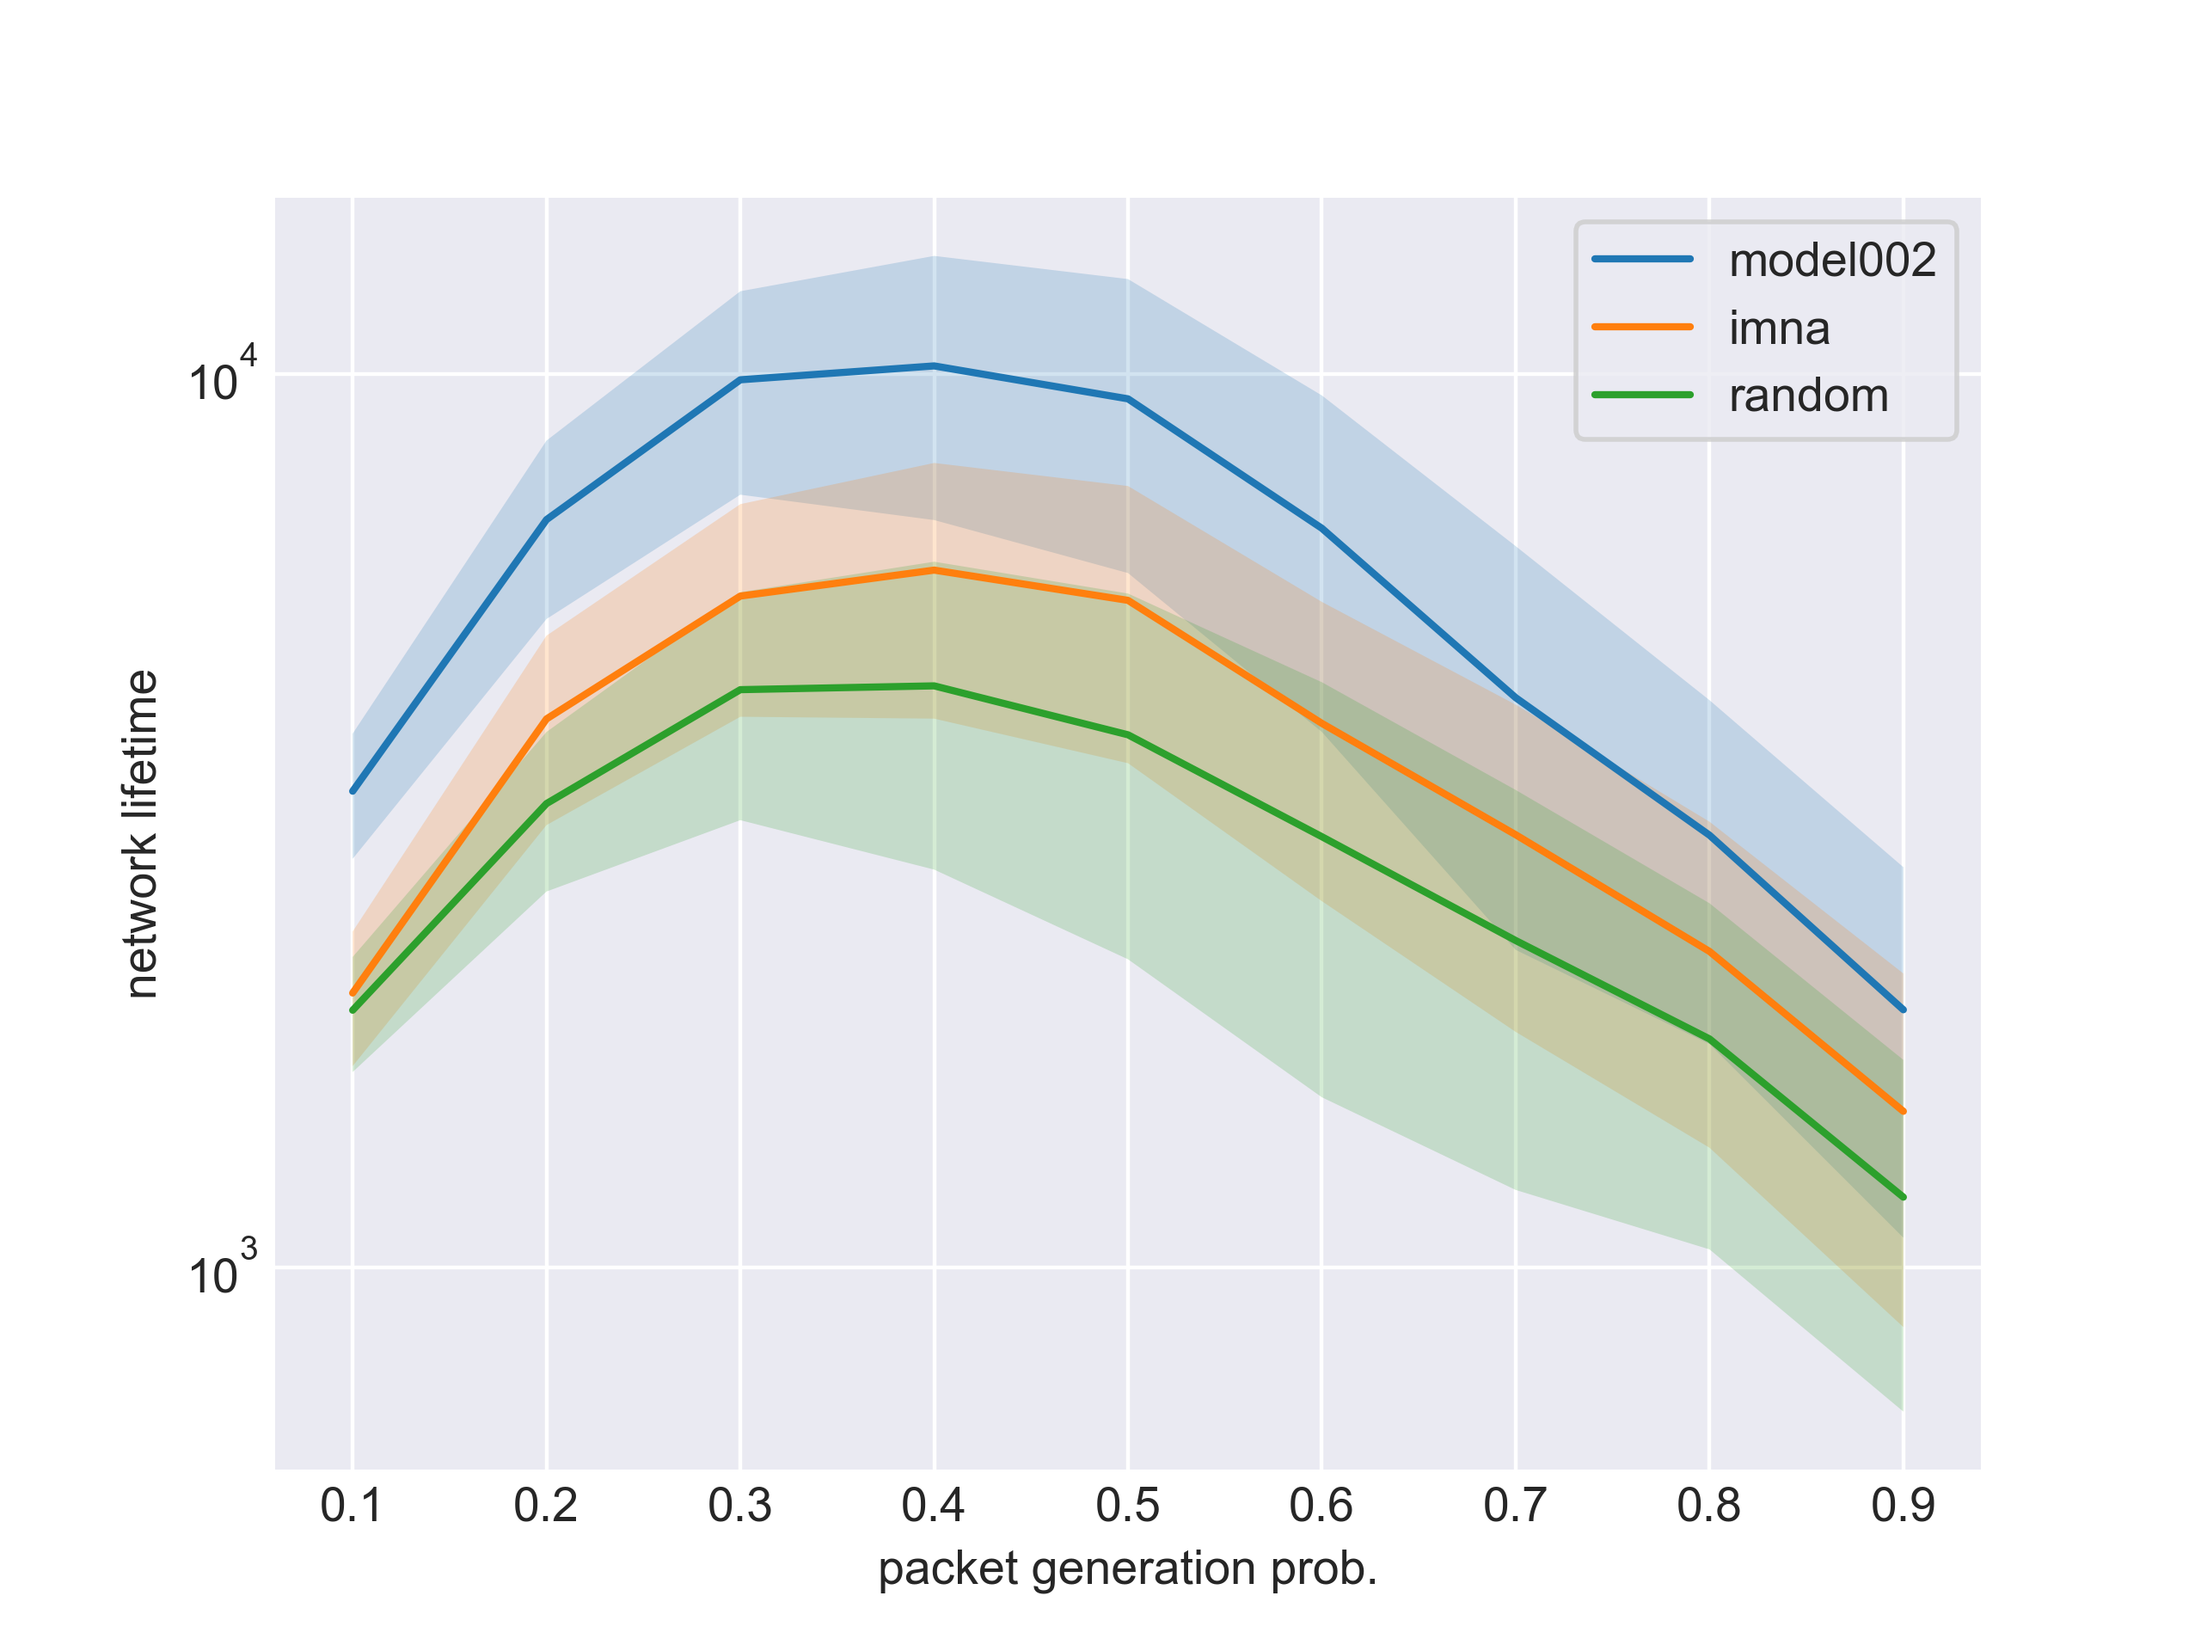
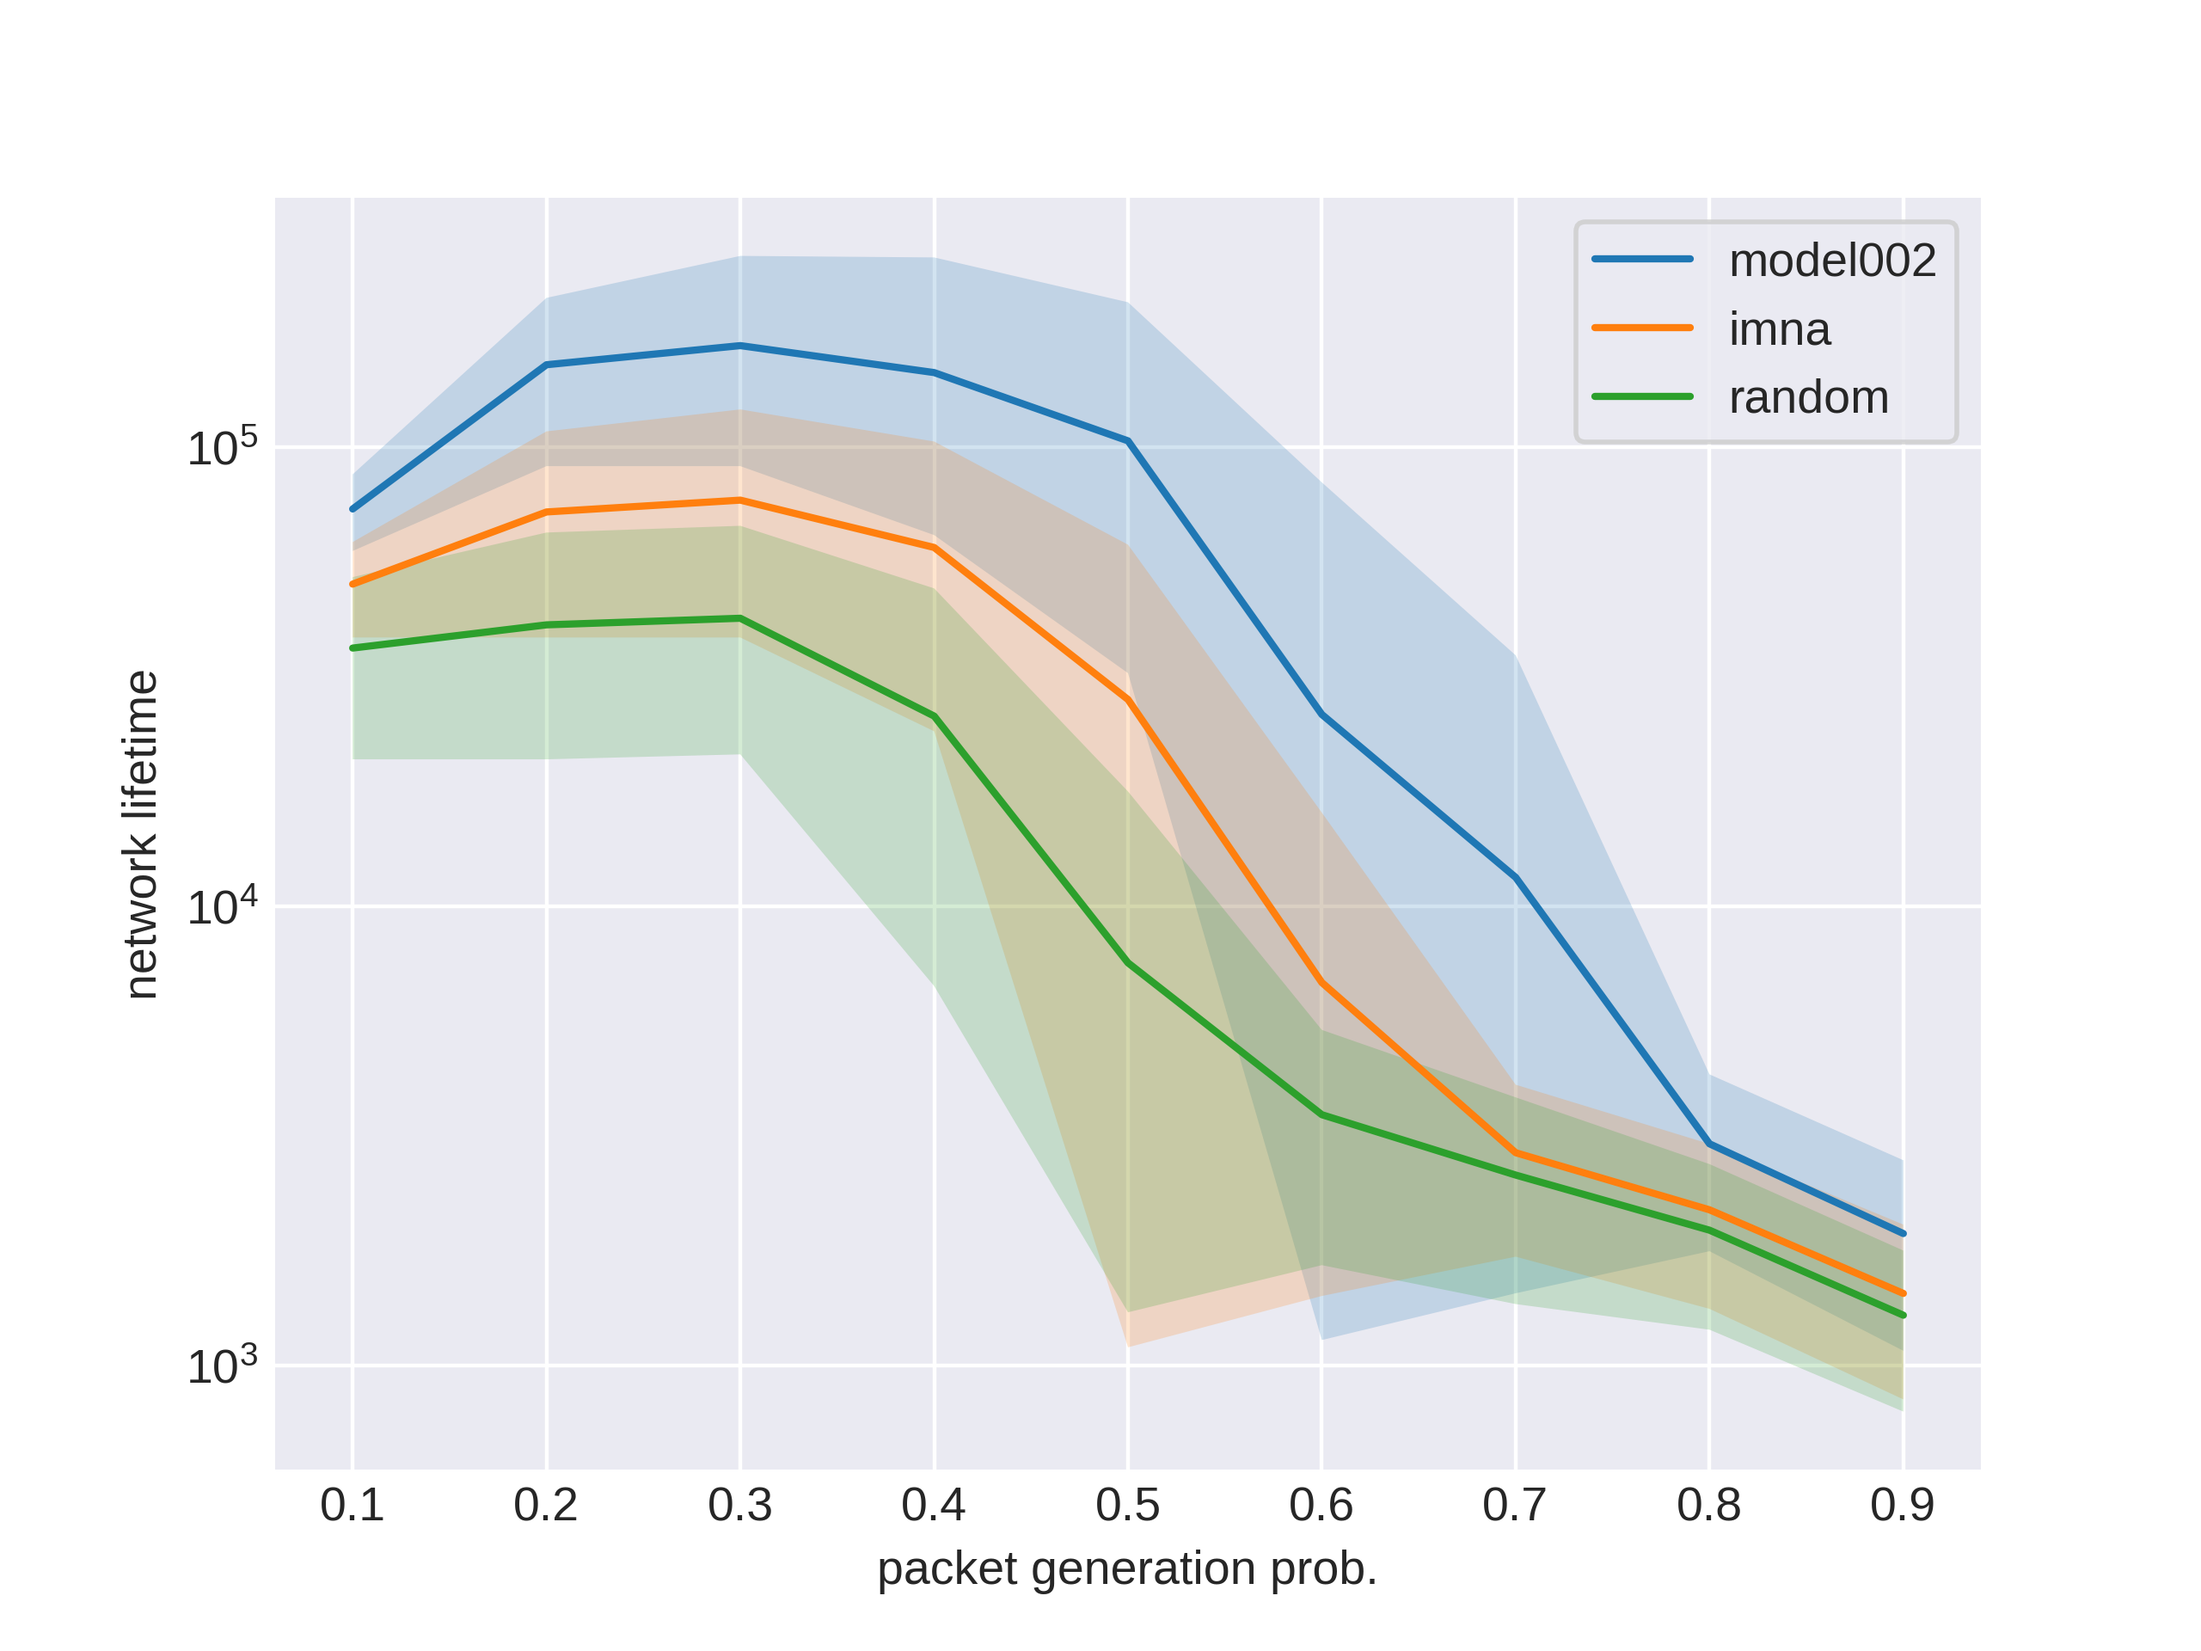
update ept3

diff --git a/run_ept_3.py b/run_ept_3.py
@@ -207,7 +207,6 @@ def run_ept_3(seed=123, save_dir='results', rerun=[]):
                 weight=12, color='black',
                 fontdict={'fontfamily': 'monospace'})
         plt.savefig(os.path.join(save_dir, 'ept3.png'), dpi=400)
-        plt.show()
         plt.close('all')
 
     save_dir = os.path.join(save_dir, f'ept_{3}')

diff --git a/ept_config.py b/ept_config.py
@@ -39,7 +39,7 @@ class Ept3(Config):
     step = 0.1
     min_prob = 0.3
     max_prob = 1
-    repeat = 2
+    repeat = 1
     
 
 
